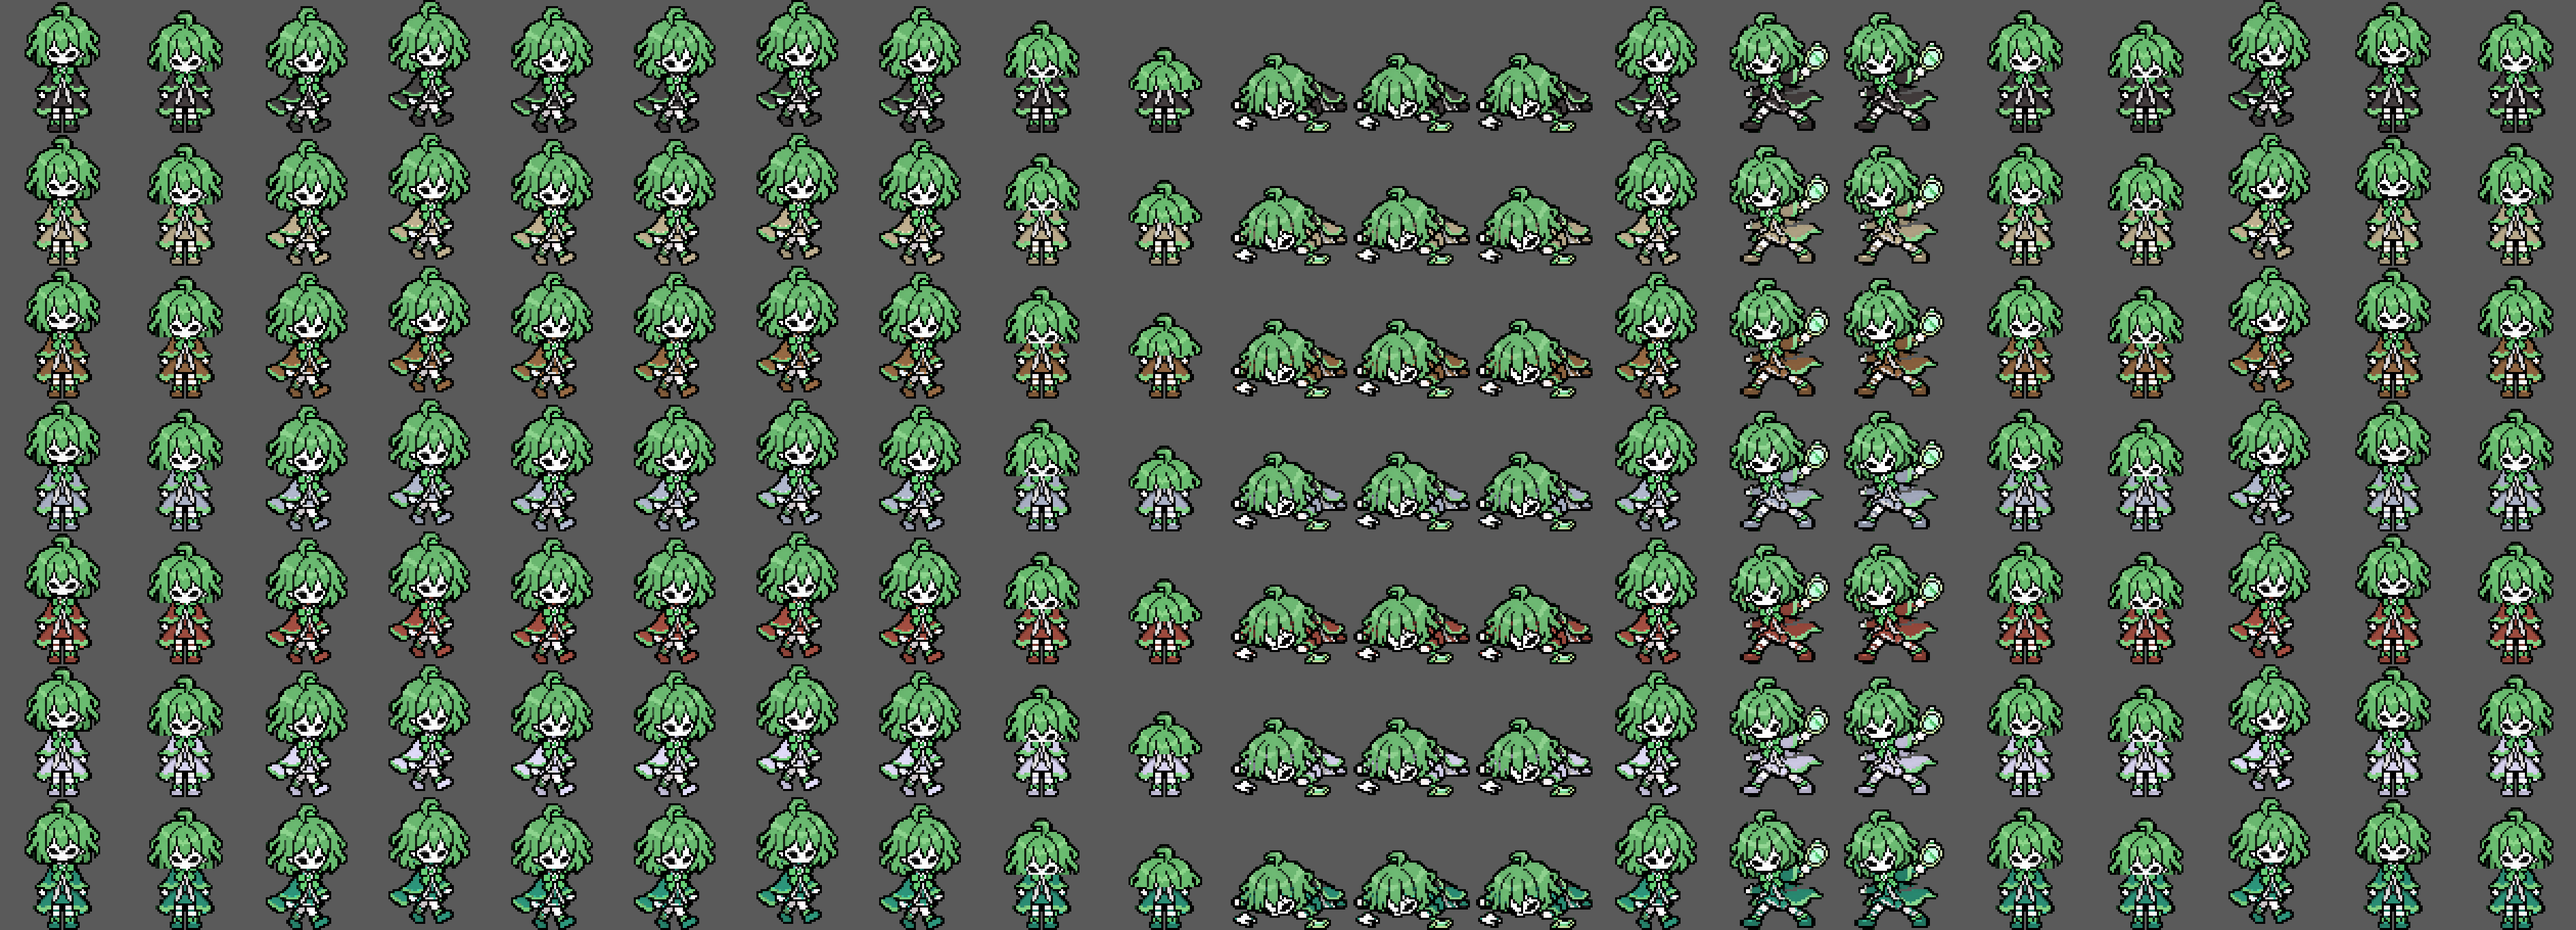
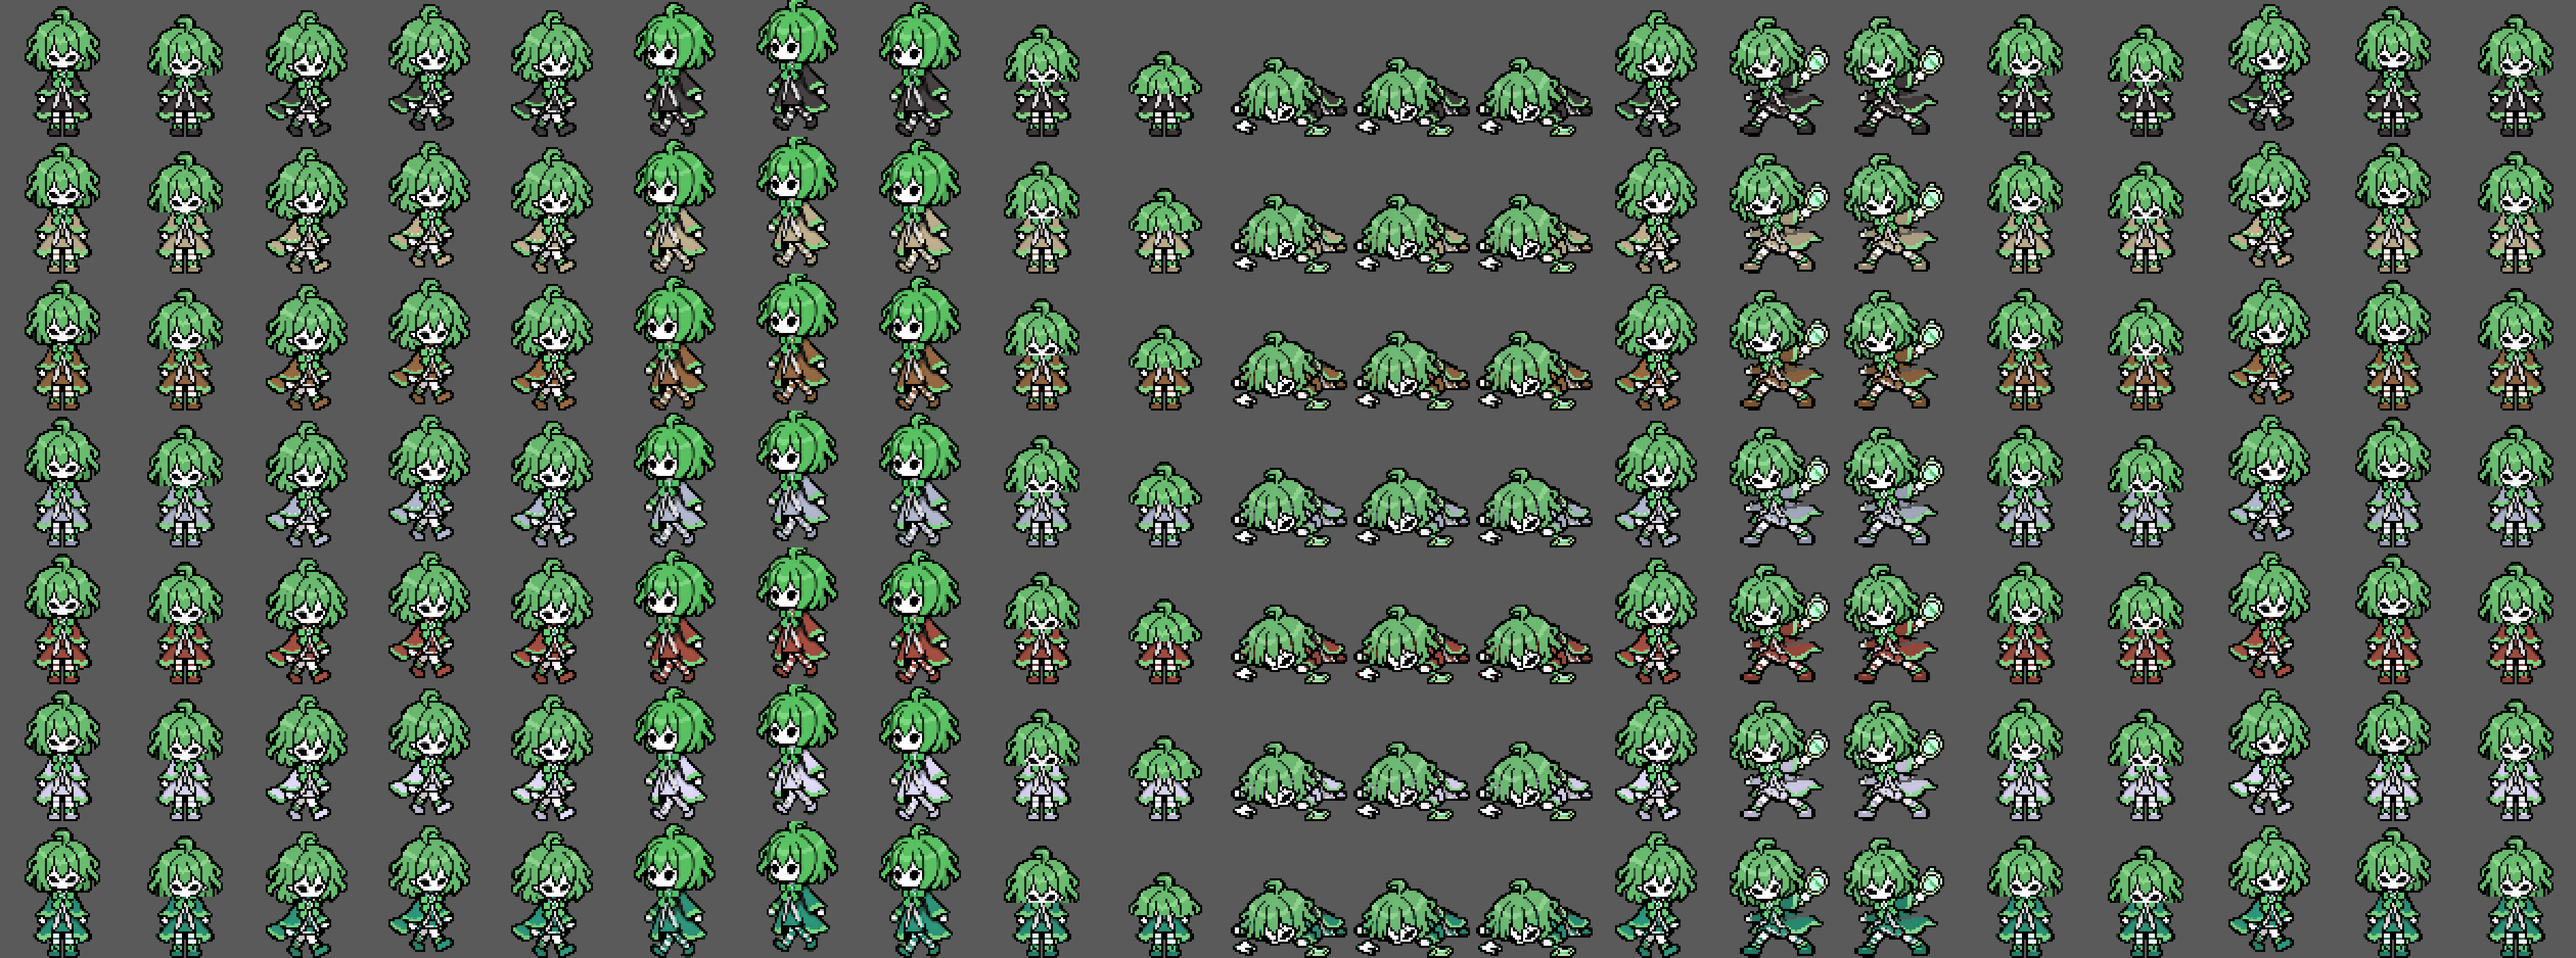
Envy: the owner's second stride (walk2) for the run frames
Claude-Session: https://claude.ai/code/session_012M3rhPDTM1aAWScAh2m7cE

Changed region(s): [[0.0, 0.0, 0.9989, 1.0]]

diff --git a/tools/sinsart/make_hero_sprites.py b/tools/sinsart/make_hero_sprites.py
@@ -125,7 +125,7 @@ def native(path):
 PITCH = {"lust": {"front": 12.0, "walk": 12.0, "attack": 12.0, "die": 9.2},
          # envy: front is its own pitch, the others are matched on the hair width (walk halfway: her head is
          # drawn bigger there and the full correction would make the body too short)
-         "envy": {"front": 18.4, "walk": 21.0, "attack": 19.6, "die": 18.7},
+         "envy": {"front": 18.4, "walk": 21.0, "walk2": 6.25, "attack": 19.6, "die": 18.7},
          # wrath (second design): Gemini drew every pose at the same zoom, but the detected pitch of the attack/die
          # pictures came out finer (14/13 source px) and made them twice as big: all four at the front's pitch
          "wrath": {"front": 22.3, "walk": 22.3, "attack": 22.3, "die": 22.3},

diff --git a/CLAUDE.md b/CLAUDE.md
@@ -745,7 +745,7 @@ fitted to the height on black, character at `SPLASH_FOCUS`). `make_sin_assets.py
 pictures alone. `GLOBAL_BG` also clears the background colour inside closed loops (gluttony's attack swoosh), `SWAP_LEGS` False
 runs on the walk pose with bob only (long coats); an optional `hero_art/<sin>/walk2.png` (the other stride, same direction,
 zoom and colours as walk; gets `WALK_MIRROR` and its own `PITCH` entry, defaulting to walk's) replaces both for run frames 5-7 (`WALK2_MIRROR` overrides its facing when it differs from walk's: sloth's walk2 faces right; drawn
-second strides so far: pride, gluttony (pitch 14.4, `FRINGE` 1 for its yellow rim), sloth), `SPLASH_ERASE` paints boxes (the Gemini sparkle) out of a splash.
+second strides so far: pride, gluttony (pitch 14.4, `FRINGE` 1 for its yellow rim), sloth, solomon, envy (Nov 19 2026: a 512px picture cropped to its green, pitch 6.25 between head-width and height match; her stockings are striped there)), `SPLASH_ERASE` paints boxes (the Gemini sparkle) out of a splash.
 Done: gluttony (third design Nov 16: farm girl in a straw hat and brown overalls with a drumstick, 82x70; per-pose `PITCH`
  matched on the hat; `CLOTHES` = the dark brown overalls and boots below the hat band, tier 6 the sin's violet; `SWAP_LEGS` on
  again (no coat); attack keeps the swoosh (`GLOBAL_BG` clears the yellow inside it); splash on its own orange), greed (65x54), wrath (second design Nov 16: red-haired
